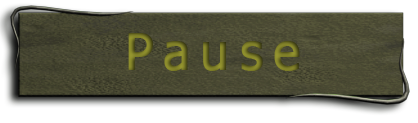
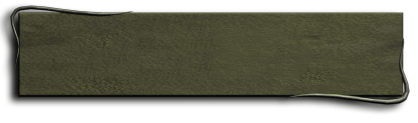
Fix onscreen keyboard + input text tetrigrounds

Changed region(s): [[0.2799, 0.2683, 0.7153, 0.5854]]

diff --git a/Demo/TetriGrounds/LingoEngine.Demo.TetriGrounds.Core/Sprites/Behaviors/EnterHighScoreBehavior.cs b/Demo/TetriGrounds/LingoEngine.Demo.TetriGrounds.Core/Sprites/Behaviors/EnterHighScoreBehavior.cs
@@ -1,0 +1,86 @@
+using LingoEngine.Sprites;
+using LingoEngine.Movies;
+using AbstUI.Primitives;
+using LingoEngine.Sprites.Events;
+using LingoEngine.Texts;
+using AbstUI.Inputs;
+
+namespace LingoEngine.Demo.TetriGrounds.Core.Sprites.Behaviors
+{
+    internal class EnterHighScoreBehavior : LingoSpriteBehavior, IHasBeginSpriteEvent
+    {
+        private readonly GlobalVars _global;
+        private ILingoMemberTextBase? _inputText;
+        private ILingoMemberTextBase? _popupTitle;
+        private IAbstJoystickKeyboard? _keyboard;
+        private IEnumerable<int> _spriteNums;
+
+        public EnterHighScoreBehavior(ILingoMovieEnvironment env, GlobalVars global) : base(env)
+        {
+            _global = global;
+        }
+
+        public void BeginSprite()
+        {
+            _inputText = Member<ILingoMemberTextBase>("T_InputText")!;
+            _popupTitle = Member<ILingoMemberTextBase>("T_PopupTitle")!;
+            _inputText.Text = "";
+            foreach (var sn in _spriteNums)
+                Sprite(sn).Visibility = false;
+        }
+        public void EndSprite()
+        {
+            if (_keyboard != null)
+            {
+                _keyboard.Close();
+                _keyboard = null!;
+            }
+        }
+
+        public void Show()
+        {
+            if (_inputText == null || _popupTitle == null || _inputText ==null) return;
+            _keyboard = CreateJoystickKeyboard(c => c.Title = "Type your name", AbstJoystickKeyboard.KeyboardLayoutType.Azerty, false, new APoint(170, 310));
+            _keyboard.BackgroundColor = AColor.FromHex("#42432dAA");
+            _keyboard.TextColor = AColor.FromHex("#c5c528");
+            _keyboard.SelectedBackgroundColor = AColor.FromHex("#37362a");
+            _keyboard.UpdateStyle();
+            _keyboard.MaxLength = 15;
+            _keyboard.KeySelected += KeySelected;
+            _keyboard.Closed += Closed;
+            _keyboard.EnterPressed += EnterPressed;
+            
+            _popupTitle.Text = "New highscore! Type your name:";
+            foreach (var sn in _spriteNums)
+                Sprite(sn).Visibility = true;
+        }
+
+        private void EnterPressed()
+        {
+            if (_keyboard == null) return;
+            _keyboard.Close();
+        }
+
+        private void Closed()
+        {
+            if (_keyboard == null) return;
+            //_keyboard.Close();
+            _keyboard.KeySelected -= KeySelected;
+            _keyboard.Closed -= Closed;
+            _keyboard.EnterPressed -= EnterPressed;
+            _keyboard = null;
+            foreach (var sn in _spriteNums)
+                Sprite(sn).Visibility = false;
+        }
+
+        private void KeySelected(string chara)
+        {
+            if (_inputText == null || _keyboard == null) return;
+            _inputText.Text = _keyboard.Text;
+            
+            //_keyboard.UpdateStyle();
+        }
+
+        internal void SetSpriteNums(IEnumerable<int> spritenums) => _spriteNums = spritenums;  
+    }
+}

diff --git a/WillMoveToOwnRepo/AbstUI/src/AbstUI.SDL2/Windowing/AbstSdlDialog.cs b/WillMoveToOwnRepo/AbstUI/src/AbstUI.SDL2/Windowing/AbstSdlDialog.cs
@@ -130,12 +130,12 @@ namespace AbstUI.SDL2.Windowing
 
         public APoint GetPosition() => new APoint(X, Y);
 
-        public APoint GetSize() => new APoint(Width, Height);
+        public APoint GetSize() => new APoint(Width, Borderless?Height - TitleBarHeight : Height);
 
         public void SetSize(int width, int height)
         {
             Width = width;
-            Height = Borderless? height : height+ TitleBarHeight;
+            Height = Borderless? height+ TitleBarHeight: height;
         }
 
         public override AbstSDLRenderResult Render(AbstSDLRenderContext context)
@@ -145,7 +145,7 @@ namespace AbstUI.SDL2.Windowing
             if (_centered)
                 UpdateCenterPosition();
             _xOffset = (int)X;
-            _yOffset = (int)(Y+TitleBarHeight);
+            _yOffset = (int)(Borderless?Y: Y+TitleBarHeight);
             var tex = (nint)base.Render(context);
             
             int w = (int)Width;
@@ -153,10 +153,10 @@ namespace AbstUI.SDL2.Windowing
             if (_font == null)
                 _font = context.SdlFontManager.GetTyped(this, null, 14);
 
-            var prev = SDL.SDL_GetRenderTarget(context.Renderer);
-            SDL.SDL_SetRenderTarget(context.Renderer, tex);
             if (!Borderless)
             {
+                var prev = SDL.SDL_GetRenderTarget(context.Renderer);
+                SDL.SDL_SetRenderTarget(context.Renderer, tex);
                 // title bar
                 SDL.SDL_SetRenderDrawColor(context.Renderer, 200, 200, 200, 255);
                 var bar = new SDL.SDL_Rect { x = 0, y = 0, w = w, h = TitleBarHeight };
@@ -192,8 +192,8 @@ namespace AbstUI.SDL2.Windowing
                 SDL.SDL_SetRenderDrawColor(context.Renderer, 255, 255, 255, 255);
                 SDL.SDL_RenderDrawLine(context.Renderer, _closeRect.x + 3, _closeRect.y + 3, _closeRect.x + _closeRect.w - 3, _closeRect.y + _closeRect.h - 3);
                 SDL.SDL_RenderDrawLine(context.Renderer, _closeRect.x + _closeRect.w - 3, _closeRect.y + 3, _closeRect.x + 3, _closeRect.y + _closeRect.h - 3);
+                SDL.SDL_SetRenderTarget(context.Renderer, prev);
             }
-            SDL.SDL_SetRenderTarget(context.Renderer, prev);
             //base.Render(context);
 
             return tex;

diff --git a/Demo/TetriGrounds/LingoEngine.Demo.TetriGrounds.Core/TetriGroundsProjectFactory.cs b/Demo/TetriGrounds/LingoEngine.Demo.TetriGrounds.Core/TetriGroundsProjectFactory.cs
@@ -171,6 +171,10 @@ public class TetriGroundsProjectFactory : ILingoProjectFactory
         _movie.AddSprite(5, 56, 64, 591, 36, c => { c.Width = 193; c.Height = 35; }).SetMember("TetriGrounds_s"); // LOGO
         _movie.AddSprite(6, 59, 64, 503, 438).SetMember(9, 2); // copyright text
         var sprite = _movie.AddSprite(7, 60, 64, 441, 92).SetMember("T_data"); // level
+        
+        
+
+
 
         // Button play
         _movie.AddSprite(9, 60, 64, 519, 343).SetMember("B_Play").AddBehavior<ButtonStartGameBehavior>(); // Button play
@@ -232,7 +236,7 @@ public class TetriGroundsProjectFactory : ILingoProjectFactory
         _movie.AddSprite(28, 59, 64, 94, 113).SetMember(41, 2); // Text personal
         _movie.AddSprite(29, 59, 64, 95, 313).SetMember("T_InternetScoresNamesP");
         _movie.AddSprite(30, 59, 64, 151, 313).SetMember("T_InternetScoresP");
-        _movie.AddSprite(35, 59, 64, 323, 238, c => c.Blend = 0).SetMember("alert").Visibility = false;
+        _movie.AddSprite(35, 59, 64, 363, 238, c => c.Blend = 0).SetMember("pause").Visibility = false;
         // Start Animation
         var memberLoading = _movie.CastLib.GetMember<ILingoMemberTextBase>(56, 2)!;
         var logoSprite1 = (ILingoSprite2DLight)_movie.AddSprite(3, 2, 53, 600, 60).SetMember("TetriGrounds_s");
@@ -245,6 +249,9 @@ public class TetriGroundsProjectFactory : ILingoProjectFactory
         var birdSprite1 = (ILingoSprite2DLight)_movie.AddSprite(6, 2, 31, 751, 394).SetMember("BirdAnim");
         birdSprite1.AddKeyframes((1, 751, 394), (16, 444, 273), (31, -33, 316));
 
+        _movie.AddSprite(36, 59, 64, 363, 238,c => {c.LocZ = 500;}).SetMember("alert"); //.Visibility = false;
+        _movie.AddSprite(37, 59, 64, 200, 200,c => {c.LocZ = 502;}).SetMember("T_PopupTitle"); // the player name text member
+        _movie.AddSprite(38, 59, 64, 200, 230,c => { c.LocZ = 502; }).SetMember("T_InputText").AddBehavior<EnterHighScoreBehavior>(c => c.SetSpriteNums([36,37,38])); // the player name text member
     }
 
 

diff --git a/WillMoveToOwnRepo/AbstUI/src/AbstUI/Inputs/AbstJoystickKeyboard.cs b/WillMoveToOwnRepo/AbstUI/src/AbstUI/Inputs/AbstJoystickKeyboard.cs
@@ -17,6 +17,7 @@ namespace AbstUI.Inputs
             configure?.Invoke(keyboard);
             var rootNode = keyboard.RootFrameworkNode;
             var window = windowManager.ShowCustomDialog(keyboard.Title, rootNode, position)!;
+            window.Dialog!.Borderless = true;
             keyboard.SetWindow(window);
             return keyboard;
         }
@@ -113,6 +114,7 @@ namespace AbstUI.Inputs
         public int Margin { get; set; } = 5;
         public int FontSize { get; set; } = 12;
         public int CellSize { get; set; } = 32;
+        public bool FirstLetterUpper { get; set; } = true;
 
         private string _title = "Keyboard";
 
@@ -223,7 +225,7 @@ namespace AbstUI.Inputs
             if (_window.Dialog != null)
             {
                 _window.Dialog.BackgroundColor = BackgroundColor;
-                _window.Dialog.SetSize(width, height);
+                _window.Dialog.SetSize(width+10, height);
             }
             DrawKeyboard();
         }
@@ -378,7 +380,13 @@ namespace AbstUI.Inputs
             else
             {
                 if (Text.Length + value.Length <= MaxLength)
+                {
+                    value = value.ToLower();
+                    if (FirstLetterUpper && ((Text.Length == 0 && value.Length == 1) || (Text.Length >2 && Text[Text.Length-1] == ' ')))
+                        value = value.ToUpperInvariant();
                     Text += value;
+                }
+            
             }
 
             TextChanged?.Invoke(value);
@@ -413,7 +421,7 @@ namespace AbstUI.Inputs
                     break;
                 case "ENTER":
                 case "RETURN":
-                    ExecuteSelectedKey();
+                    EnterPressed?.Invoke();
                     break;
                 case "SPACE":
                     ProcessInput(" ");

diff --git a/WillMoveToOwnRepo/AbstUI/src/AbstUI/Windowing/AbstDialog.cs b/WillMoveToOwnRepo/AbstUI/src/AbstUI/Windowing/AbstDialog.cs
@@ -1,10 +1,11 @@
 using AbstUI.Components;
 using AbstUI.Inputs;
 using AbstUI.Primitives;
+using Microsoft.Extensions.DependencyInjection;
 
 namespace AbstUI.Windowing
 {
-    public class AbstDialog : AbstNodeLayoutBase<IAbstFrameworkDialog>, IAbstDialog , IAbstMouseRectProvider
+    public class AbstDialog : AbstNodeLayoutBase<IAbstFrameworkDialog>, IAbstDialog , IAbstMouseRectProvider, IAbstKeyEventHandler<AbstKeyEvent>
     {
         T IAbstDialog.FrameworkObj<T>() => (T)_framework;
         public string Title { get => _framework.Title; set => _framework.Title = value; }
@@ -35,9 +36,20 @@ namespace AbstUI.Windowing
         {
             Mouse = mouse.CreateNewInstance(this);
             Key = key.CreateNewInstance(this);
+            //Mouse = serviceProvider.GetRequiredService<IAbstGlobalMouse>().CreateNewInstance(this);
+            //Key = serviceProvider.GetRequiredService<IAbstGlobalKey>().CreateNewInstance(this);
+            Key.Subscribe(this);
         }
 
+        public virtual void RaiseKeyDown(AbstKeyEvent key)
+        {
+            
+        }
 
+        public virtual void RaiseKeyUp(AbstKeyEvent key)
+        {
+            
+        }
         public IAbstDialog AddItem(IAbstNode node)
         {
             _framework.AddItem(node.Framework<IAbstFrameworkLayoutNode>());
@@ -71,7 +83,7 @@ namespace AbstUI.Windowing
 
         public void RaiseWindowStateChanged(bool state) => OnWindowStateChanged?.Invoke(state);
 
-        
+       
     }
 }
 

diff --git a/Demo/TetriGrounds/LingoEngine.Demo.TetriGrounds.Core/Sprites/Behaviors/ButtonStartGameBehavior.cs b/Demo/TetriGrounds/LingoEngine.Demo.TetriGrounds.Core/Sprites/Behaviors/ButtonStartGameBehavior.cs
@@ -3,7 +3,6 @@ using LingoEngine.Sprites;
 using LingoEngine.Events;
 using LingoEngine.Movies;
 using LingoEngine.Demo.TetriGrounds.Core.ParentScripts;
-using AbstUI.Primitives;
 #pragma warning disable IDE1006 // Naming Styles
 
 namespace LingoEngine.Demo.TetriGrounds.Core.Sprites.Behaviors
@@ -33,10 +32,8 @@ namespace LingoEngine.Demo.TetriGrounds.Core.Sprites.Behaviors
 
         private void StartNewGame()
         {
-           // var keyboard = CreateJoystickKeyboard(c => c.Title = "Type your name",AbstUI.Inputs.AbstJoystickKeyboard.KeyboardLayoutType.Azerty,true,new APoint(40,30));
-            
-           //// keyboard.Open();
-           // return;
+            //SendSprite<EnterHighScoreBehavior>(38, x => x.Show());
+            //return;
             if (_global.GameIsRunning)
                 return;
             _Player.SoundPlayBtnStart();

diff --git a/src/LingoEngine/Core/LingoScriptBase.cs b/src/LingoEngine/Core/LingoScriptBase.cs
@@ -20,8 +20,6 @@ namespace LingoEngine.Core
         void Trace(string message);
         void Log(string message);
         T Global<T>() where T : LingoGlobalVars;
-        void ClearGlobals();
-        void ShowGlobals();
         ILingoPlayer Player { get; }
     }
 
@@ -139,8 +137,8 @@ namespace LingoEngine.Core
         public void Trace(string message) => _logger.LogTrace(message);
         public void Log(string message) => _logger.LogInformation(message);
         public T Global<T>() where T : LingoGlobalVars => (T)_globals;
-        public void ClearGlobals() => _globals.ClearGlobals();
-        public void ShowGlobals() => _globals.ShowGlobals(_logger);
+        protected void ClearGlobals() => _globals.ClearGlobals();
+        protected void ShowGlobals() => _globals.ShowGlobals(_logger);
 
 
         #region Members

diff --git a/WillMoveToOwnRepo/AbstUI/src/AbstUI/Primitives/AColor.cs b/WillMoveToOwnRepo/AbstUI/src/AbstUI/Primitives/AColor.cs
@@ -104,8 +104,8 @@ namespace AbstUI.Primitives
         /// <summary>
         /// Creates a AbstUIColor from an RGB tuple.
         /// </summary>
-        public static AColor FromRGBA(byte r, byte g, byte b, byte a = 255)
-            => new AColor(-1, r, g, b, "", a);
+        public static AColor FromRGBA(byte r, byte g, byte b, byte a = 255) => new AColor(-1, r, g, b, "", a);
+        public static AColor New(byte r, byte g, byte b, byte a = 255) => new AColor(-1, r, g, b, "", a);
         public static AColor FromRGB(byte r, byte g, byte b, int code = -1, string name = "", byte a = 255)
             => new AColor(code, r, g, b, name, a);
         public static AColor Transparent() => new AColor { A = 0, Code = -1, R = 0, G = 0, B = 0, Name = "transparent" };

diff --git a/WillMoveToOwnRepo/AbstUI/src/AbstUI/Inputs/AbstKey.cs b/WillMoveToOwnRepo/AbstUI/src/AbstUI/Inputs/AbstKey.cs
@@ -77,9 +77,11 @@ namespace AbstUI.Inputs
     public class AbstKey : IAbstKey
     {
         private HashSet<IAbstKeyEventHandler<AbstKeyEvent>> _subscriptions = new();
-        private IAbstFrameworkKey _frameworkObj;
+        private IAbstFrameworkKey _frameworkObj = null!;
 
-        public AbstKey() { }
+        public AbstKey() 
+        { 
+        }
         public AbstKey(IAbstFrameworkKey frameworkObj)
         {
             _frameworkObj = frameworkObj;

diff --git a/Demo/TetriGrounds/LingoEngine.Demo.TetriGrounds.Core/TetriGroundsMembersSetup.cs b/Demo/TetriGrounds/LingoEngine.Demo.TetriGrounds.Core/TetriGroundsMembersSetup.cs
@@ -43,6 +43,9 @@ namespace LingoEngine.Demo.TetriGrounds.Core
             castData.Member["T_InternetScoresP"]!.Width = 37;
             castData.Member["T_StartLevel"]!.Width = 26;
             castData.Member["T_StartLines"]!.Width = 26;
+            castData.Member["PlayerName"]!.Width = 100;
+            castData.Member["T_InputText"]!.Width = 300;
+            castData.Member["T_PopupTitle"]!.Width = 300;
 
 
         }

diff --git a/WillMoveToOwnRepo/AbstUI/src/AbstUI.SDL2/Inputs/SdlKey.cs b/WillMoveToOwnRepo/AbstUI/src/AbstUI.SDL2/Inputs/SdlKey.cs
@@ -12,6 +12,11 @@ public class SdlKey : IAbstFrameworkKey, IFrameworkFor<AbstKey>
     private string _lastKey = string.Empty;
     private int _lastCode;
 
+    public SdlKey()
+    {
+        
+    }
+
     public void SetKeyObj(AbstKey key) => _lingoKey = key;
 
     public void ProcessEvent(SDL.SDL_Event e)

diff --git a/src/LingoEngine.SDL2/LingoSdlRootContext.cs b/src/LingoEngine.SDL2/LingoSdlRootContext.cs
@@ -57,6 +57,7 @@ public class LingoSdlRootContext : AbstUISdlRootContext<LingoMouse>
     {
         Key.ProcessEvent(e);
         _sdlMouse.ProcessEvent(e);
+        base.HandleEvent(e, ref running);
     }
 
     protected override void Update(float delta)
